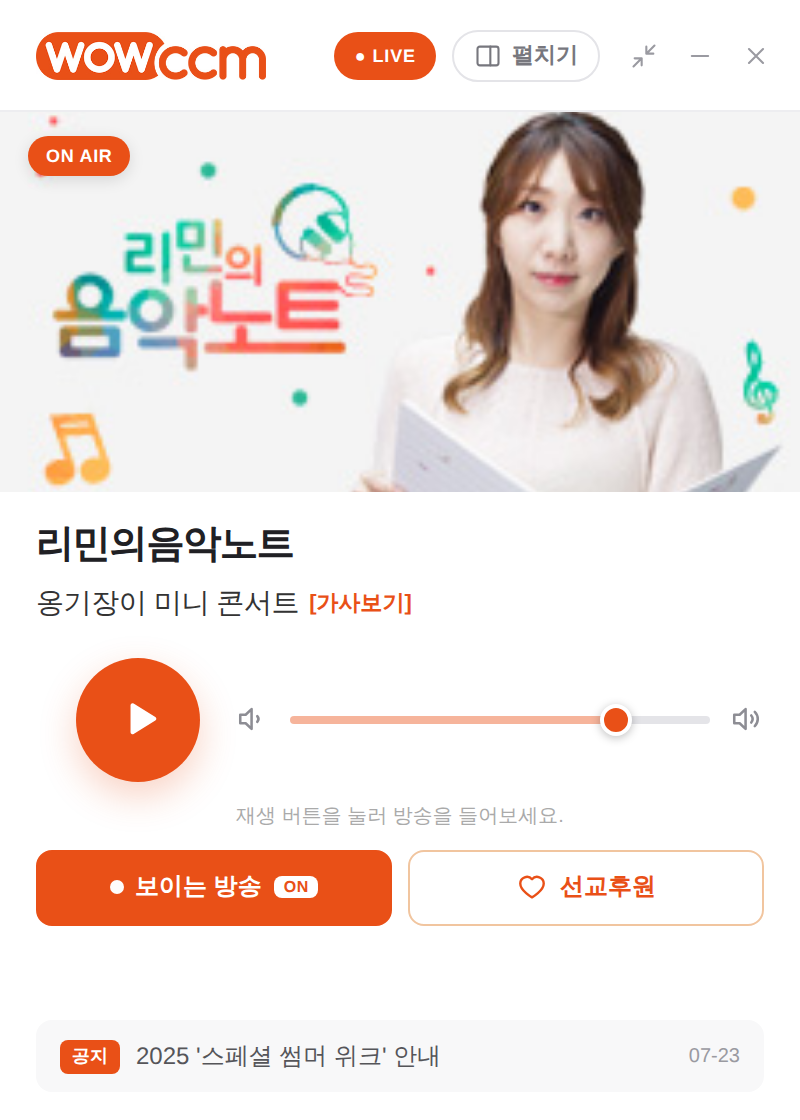
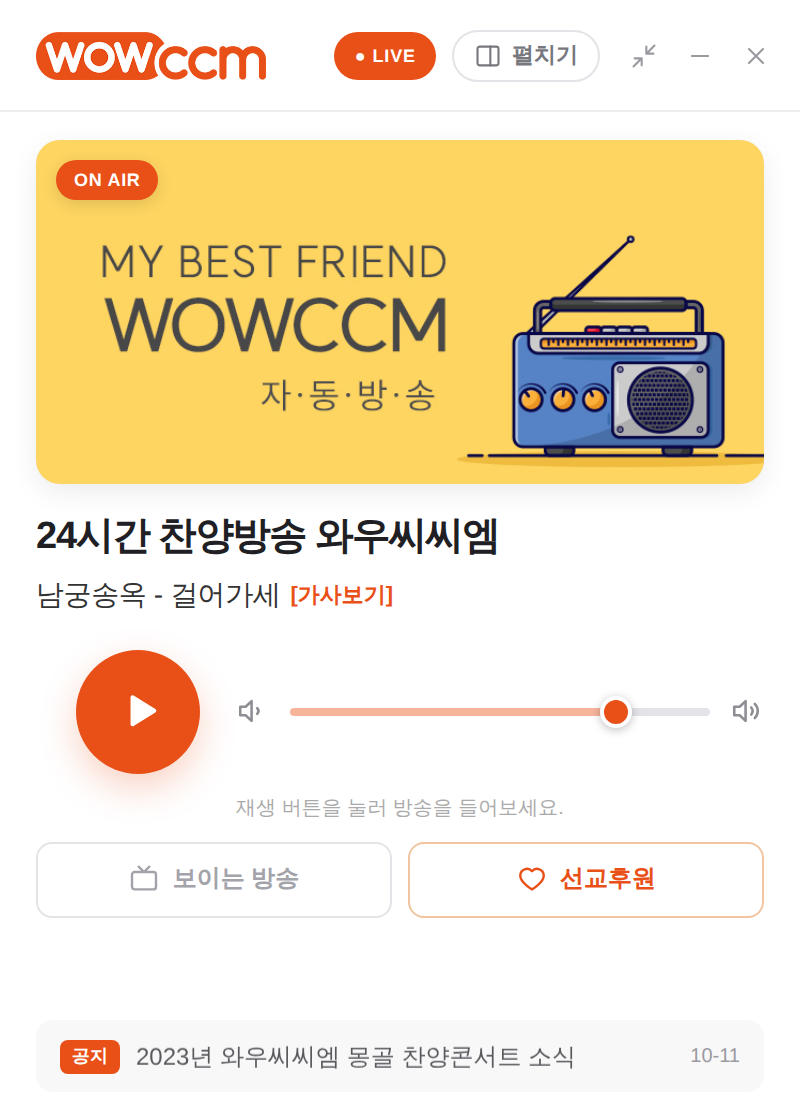
앱 전용 사연 목록(7개) 서버 파일 추가, 진행자 사진에 좌우 여백과 둥근 모서리
- server/player_requests.php: 그누보드 사연 게시판에서 최근 글을 JSON으로 (비밀글·댓글 제외)
- 앱은 이 파일을 먼저 쓰고, 없으면 기존 미니 페이지 목록(4개)으로 대체
- 진행자 사진을 아래 글자·버튼과 같은 18px 여백의 카드 모양으로 변경

Claude-Session: https://claude.ai/code/session_018gPLBYPafc4p3ZkZAQycUv

diff --git a/src/styles.css b/src/styles.css
@@ -71,13 +71,17 @@ input { font: inherit; color: inherit; }
 
 /* 진행자 이미지 + 곡 정보 */
 .hero { background: #fff; }
-.cover { position: relative; height: 190px; background: #efeff1; overflow: hidden; }
+/* 진행자 사진: 아래 글자·버튼과 같은 18px 여백, 둥근 모서리의 카드 */
+.cover {
+  position: relative; height: 172px; margin: 14px 18px 0; border-radius: 12px;
+  background: #efeff1; overflow: hidden; box-shadow: 0 4px 14px rgba(0, 0, 0, 0.08);
+}
 .cover img { width: 100%; height: 100%; object-fit: cover; display: block; }
 .cover__empty {
   height: 100%; display: grid; place-items: center; font-size: 30px; font-weight: 900; letter-spacing: -1px;
   color: #d5d5da;
 }
-.cover--video { height: 225px; background: #000; }
+.cover--video { height: 205px; background: #000; }
 .cover--video iframe { display: block; width: 100%; height: 100%; border: 0; }
 .video-close {
   position: absolute; right: 10px; top: 10px; display: grid; place-items: center; width: 28px; height: 28px;
@@ -87,7 +91,7 @@ input { font: inherit; color: inherit; }
 .watching { display: inline-flex; align-items: center; gap: 6px; font-size: 13px; font-weight: 700; color: var(--accent); }
 .watching i { width: 7px; height: 7px; border-radius: 50%; background: var(--accent); animation: live-blink 1.4s ease-in-out infinite; }
 .onair-mark {
-  position: absolute; left: 14px; top: 12px; padding: 5px 9px; border-radius: 12px;
+  position: absolute; left: 10px; top: 10px; padding: 5px 9px; border-radius: 12px;
   background: var(--accent); color: #fff; font-size: 9px; font-weight: 900; letter-spacing: 0.35px;
   box-shadow: 0 2px 8px rgba(0, 0, 0, 0.12);
 }

diff --git a/src/lib/api.test.ts b/src/lib/api.test.ts
@@ -1,6 +1,15 @@
 // @vitest-environment jsdom
 import { describe, expect, it } from "vitest";
-import { embedSrc, kstMinutes, markOnAir, parseMiniPage, parseNotices, parseRequests, videoIdFromUrl } from "./api";
+import {
+  embedSrc,
+  kstMinutes,
+  markOnAir,
+  parseMiniPage,
+  parseNotices,
+  parsePlayerRequests,
+  parseRequests,
+  videoIdFromUrl,
+} from "./api";
 
 // 한국 시각 2026-09-29 14:30 = UTC 05:30
 const KST_1430 = new Date("2026-09-29T05:30:00Z");
@@ -106,5 +115,22 @@ describe("보이는 방송 영상 주소", () => {
     expect(embedSrc({ videoId: "abc" }, false)).toMatch(/^https:\/\/www\.youtube\.com\/embed\/abc\?autoplay=1/);
     expect(embedSrc({ channelId: "UCx" }, false)).toMatch(/embed\/live_stream\?channel=UCx&/);
     expect(embedSrc({}, true)).toBeNull();
+  });
+});
+
+describe("parsePlayerRequests (앱 전용 사연 목록)", () => {
+  it("JSON 목록을 읽는다", () => {
+    const json = JSON.stringify({
+      ok: true,
+      items: [{ name: "원혜영", content: "첫 줄\n  둘째   줄", day: "09-29", clock: "15:59" }],
+    });
+    expect(parsePlayerRequests(json)).toEqual([
+      { name: "원혜영", content: "첫 줄\n둘째 줄", day: "09-29", clock: "15:59" },
+    ]);
+  });
+
+  it("설정 전이거나 형식이 다르면 null (기존 목록으로 대체)", () => {
+    expect(parsePlayerRequests('{"ok":false,"error":"board_not_configured"}')).toBeNull();
+    expect(parsePlayerRequests("<html>404</html>")).toBeNull();
   });
 });

diff --git a/src/lib/api.ts b/src/lib/api.ts
@@ -78,7 +78,34 @@ export function parseRequests(html: string): RequestPost[] {
   }));
 }
 
+/** 앱 전용 목록(player_requests.php, JSON)을 해석한다. 형식이 맞지 않으면 null */
+export function parsePlayerRequests(json: string): RequestPost[] | null {
+  try {
+    const d = JSON.parse(json);
+    if (!d?.ok || !Array.isArray(d.items)) return null;
+    return d.items.map((it: Record<string, unknown>) => ({
+      name: clean(String(it.name ?? "")),
+      content: String(it.content ?? "")
+        .split("\n")
+        .map((l) => l.replace(/\s+/g, " ").trim())
+        .filter(Boolean)
+        .join("\n"),
+      day: clean(String(it.day ?? "")),
+      clock: clean(String(it.clock ?? "")),
+    }));
+  } catch {
+    return null;
+  }
+}
+
+/** 사연 목록: 앱 전용 파일(7개)을 먼저 쓰고, 없으면 미니 페이지 목록(4개)을 쓴다 */
 export async function getRequests(): Promise<RequestPost[]> {
+  try {
+    const posts = parsePlayerRequests(await wowGet(API.playerRequests));
+    if (posts) return posts;
+  } catch {
+    /* 파일이 아직 없음 → 기존 목록 */
+  }
   return parseRequests(await wowGet(API.requests));
 }
 

diff --git a/src/config.ts b/src/config.ts
@@ -11,7 +11,8 @@ export const API = {
   program: `${MINI}?mini_program_status=1`, // {"program","presenter","onair"}
   song: "/daeil/music5.php?song_check=1", // {"status","song"}
   dj: "/wowcast/dj5.php?check=1", // {"icq","image"}
-  requests: `${MINI}?mini_request_list=1`, // 사연 목록 HTML 조각
+  playerRequests: "/wowcast/player_requests.php?limit=7", // 앱 전용 사연 목록 7개 (server/player_requests.php)
+  requests: `${MINI}?mini_request_list=1`, // 사연 목록 HTML 조각 (4개, 위 파일이 없을 때 대신 사용)
   miniPage: MINI, // 다시듣기·편성표가 이 페이지 안에 들어 있다
   notices: "/bbs/rss.php?bo_table=news", // 공지사항 게시판 RSS
   youtubeLive: "/wowcast/youtube_live.php", // 보이는 방송 여부 (server/youtube_live.php, YouTube API)

diff --git a/server/player_requests.php b/server/player_requests.php
@@ -1,0 +1,86 @@
+<?php
+/**
+ * WOWCCM 플레이어 전용: 사연&신청곡 최근 목록
+ *
+ * 올릴 위치: https://wowccm.net/wowcast/player_requests.php
+ * 사용 예:   player_requests.php?limit=7
+ * 응답 예:   {"ok":true,"items":[{"name":"원혜영","content":"…","day":"09-29","clock":"15:59"}, …]}
+ *
+ * - 기존 wow_mini_test_v2.php 는 건드리지 않고, 앱이 쓸 목록만 따로 만든다.
+ * - 그누보드 설정(common.php)을 불러와 사연 게시판에서 최근 글을 읽는다.
+ * - 비밀글과 댓글은 보여 주지 않는다.
+ */
+
+// ▼ 사연&신청곡 게시판 이름 (게시판 주소의 bo_table= 뒤에 오는 값)
+const WOWCCM_REQUEST_BOARD = '';
+
+const WOWCCM_DEFAULT_LIMIT = 7;
+const WOWCCM_MAX_LIMIT = 20;
+
+/** 게시판 글 행들을 앱에 보낼 형태로 바꾼다 (그누보드 없이도 시험할 수 있게 따로 둔다) */
+function wowccm_format_requests(array $rows): array
+{
+    $items = [];
+    foreach ($rows as $r) {
+        if (strpos((string)($r['wr_option'] ?? ''), 'secret') !== false) continue;
+        $content = (string)($r['wr_content'] ?? '');
+        $content = preg_replace('#<(script|style)\b[^>]*>.*?</\1>#is', '', $content);
+        $content = preg_replace('#<br\s*/?>#i', "\n", $content);
+        $content = html_entity_decode(strip_tags($content), ENT_QUOTES, 'UTF-8');
+        $content = trim(preg_replace("/[ \t]+/", ' ', $content));
+        $dt = strtotime((string)($r['wr_datetime'] ?? '')) ?: 0;
+        $items[] = [
+            'name' => trim(html_entity_decode(strip_tags((string)($r['wr_name'] ?? '')), ENT_QUOTES, 'UTF-8')),
+            'content' => $content,
+            'day' => $dt ? date('m-d', $dt) : '',
+            'clock' => $dt ? date('H:i', $dt) : '',
+        ];
+    }
+    return $items;
+}
+
+// 시험 코드에서 함수만 불러갈 때는 여기서 멈춘다
+if (defined('WOWCCM_TEST')) return;
+
+header('Content-Type: application/json; charset=utf-8');
+header('Cache-Control: no-store');
+
+if (WOWCCM_REQUEST_BOARD === '' || !preg_match('/^[A-Za-z0-9_]+$/', WOWCCM_REQUEST_BOARD)) {
+    echo json_encode(['ok' => false, 'error' => 'board_not_configured']);
+    exit;
+}
+
+$limit = (int)($_GET['limit'] ?? WOWCCM_DEFAULT_LIMIT);
+$limit = max(1, min(WOWCCM_MAX_LIMIT, $limit ?: WOWCCM_DEFAULT_LIMIT));
+
+// 그누보드 설정 불러오기 (DB 연결, 테이블 이름 등)
+$common = dirname(__DIR__) . '/common.php';
+if (!is_file($common)) {
+    echo json_encode(['ok' => false, 'error' => 'common_php_not_found']);
+    exit;
+}
+include_once $common;
+
+$prefix = $g5['write_prefix'] ?? ($g4['write_prefix'] ?? 'g5_write_');
+$table = $prefix . WOWCCM_REQUEST_BOARD;
+
+$rows = [];
+$result = sql_query(
+    "select wr_name, wr_content, wr_datetime, wr_option
+       from `{$table}`
+      where wr_is_comment = 0
+      order by wr_id desc
+      limit " . ($limit * 2),
+    false
+);
+if (!$result) {
+    echo json_encode(['ok' => false, 'error' => 'board_query_failed']);
+    exit;
+}
+while ($row = sql_fetch_array($result)) {
+    $rows[] = $row;
+}
+
+// 비밀글을 걸러 내도 개수가 모자라지 않도록 넉넉히 읽은 뒤 자른다
+$items = array_slice(wowccm_format_requests($rows), 0, $limit);
+echo json_encode(['ok' => true, 'items' => $items], JSON_UNESCAPED_UNICODE | JSON_UNESCAPED_SLASHES);

diff --git a/server/README.md b/server/README.md
@@ -65,3 +65,21 @@
 
 - 올릴 위치: `wowcast/visible_embed.php` (설정할 것은 없습니다)
 - 확인 방법: https://wowccm.net/wowcast/visible_embed.php?check=1 을 열었을 때 `ok`가 보이면 정상입니다.
+
+## player_requests.php: 앱 전용 사연 목록 (최근 7개)
+
+기존 `wow_mini_test_v2.php`는 다른 페이지에서도 쓰고 있어서 건드리지 않습니다. 앱이 쓸 사연 목록만 이 파일에서 따로 만듭니다.
+
+1. 파일 맨 위의 `WOWCCM_REQUEST_BOARD = ''` 따옴표 안에 **사연&신청곡 게시판 이름**을 넣습니다.
+   - 게시판 이름은 홈페이지에서 사연 게시판을 열었을 때 주소의 `bo_table=` 뒤에 오는 글자입니다.
+2. 파일을 `wowcast/` 폴더에 올립니다. 그누보드의 `common.php`가 한 단계 위 폴더(홈페이지 맨 위 폴더)에 있어야 합니다.
+3. 확인: https://wowccm.net/wowcast/player_requests.php 를 열었을 때 `{"ok":true,"items":[…]}`가 나오면 정상입니다.
+
+| 보이는 내용 | 뜻 |
+|---|---|
+| `board_not_configured` | 게시판 이름을 아직 넣지 않았음 |
+| `board_query_failed` | 게시판 이름이 틀렸음 |
+| `common_php_not_found` | 파일을 올린 폴더 위치가 다름 |
+
+- 비밀글과 댓글은 보여 주지 않습니다.
+- 앱은 이 파일이 없거나 오류가 나면 예전처럼 미니 페이지의 4개 목록을 씁니다.
